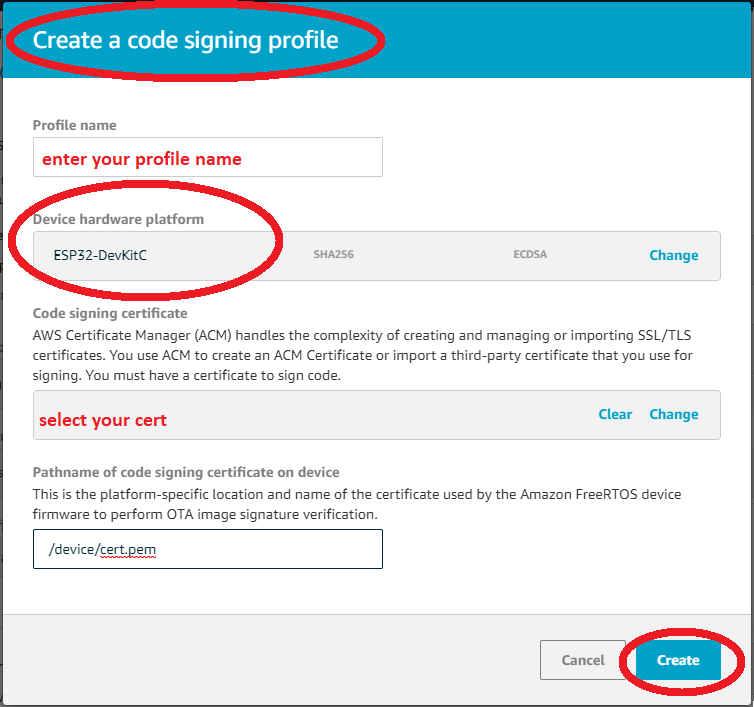
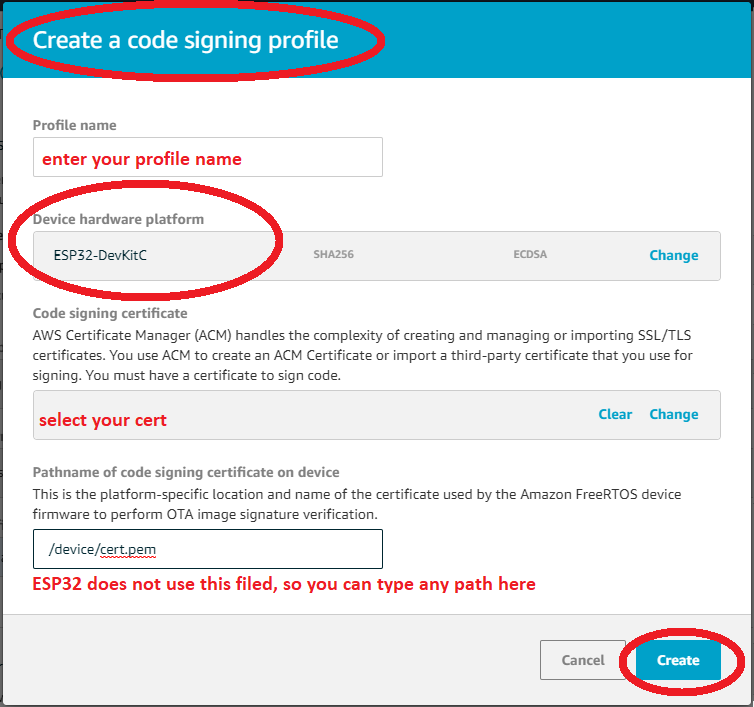
[Lab1] Add OTA description

Changed region(s): [[0.0305, 0.8091, 0.7016, 0.8402]]

diff --git a/docs/lab1-afr-ota.md b/docs/lab1-afr-ota.md
@@ -193,7 +193,7 @@ We will go through the following steps to finish Amazon FreeRTOS OTA demonstrati
 
 3. Code-signing certificate configuration
    > ESP32 support a self-signed **SHA-256 with ECDSA** code-signing certificate, we will use [openssl](https://www.openssl.org/) to generate private key and certificate
-   * In your working folder, create and edit cert_conf.txt. Replace YOUR_EMAIL_ADDRESS with your email address
+   * In your working folder, create and edit cert_config.txt. Replace YOUR_EMAIL_ADDRESS with your email address
 
         ```text
         [ req ]
@@ -239,6 +239,8 @@ We will go through the following steps to finish Amazon FreeRTOS OTA demonstrati
         "-----END CERTIFICATE-----\n";
         ```
 
+        ![p18_add-cert.png](../pics/lab1/p18_add-cert.png)
+
 4. Build, install, and run firmware on ESP32 by refering to previous labs
         ![p4_old-afr.png](../pics/lab1/p4_old-afr.png)
 
@@ -255,9 +257,9 @@ We will go through the following steps to finish Amazon FreeRTOS OTA demonstrati
 
    * Rebuild the new firmware image, the new image is put in \<AmazonFreeRTOS>/out/aws_demos.bin
 
-2. Create Amazon S3 bucket and upload the new image
+2. Upload the new image to your S3 bucket
    * Sign in to the Amazon [S3 console](https://console.aws.amazon.com/s3/)
-   * Select the bucket that you created in prerequisite, and choose upload icon to add your new aws_demos.bin image
+   * Select the bucket that you created in prerequisite, and choose **upload** icon to add your new aws_demos.bin image
 
 3. Create an OTA update
    * Go to AWS IoT console to create a job
@@ -273,6 +275,6 @@ We will go through the following steps to finish Amazon FreeRTOS OTA demonstrati
 
 ## Activate OTA update ##
 
-1. Connect to ESP32, and you will see the OTA agent is downloading, verifying, testing the new firmware image
+1. Connect to ESP32, and you will see the OTA agent is downloading, verifying, and testing the new firmware image
 2. The new version is showed after the new firmware image is installed
 ![p17_new-afr.png](../pics/lab1/p17_new-afr.png)
